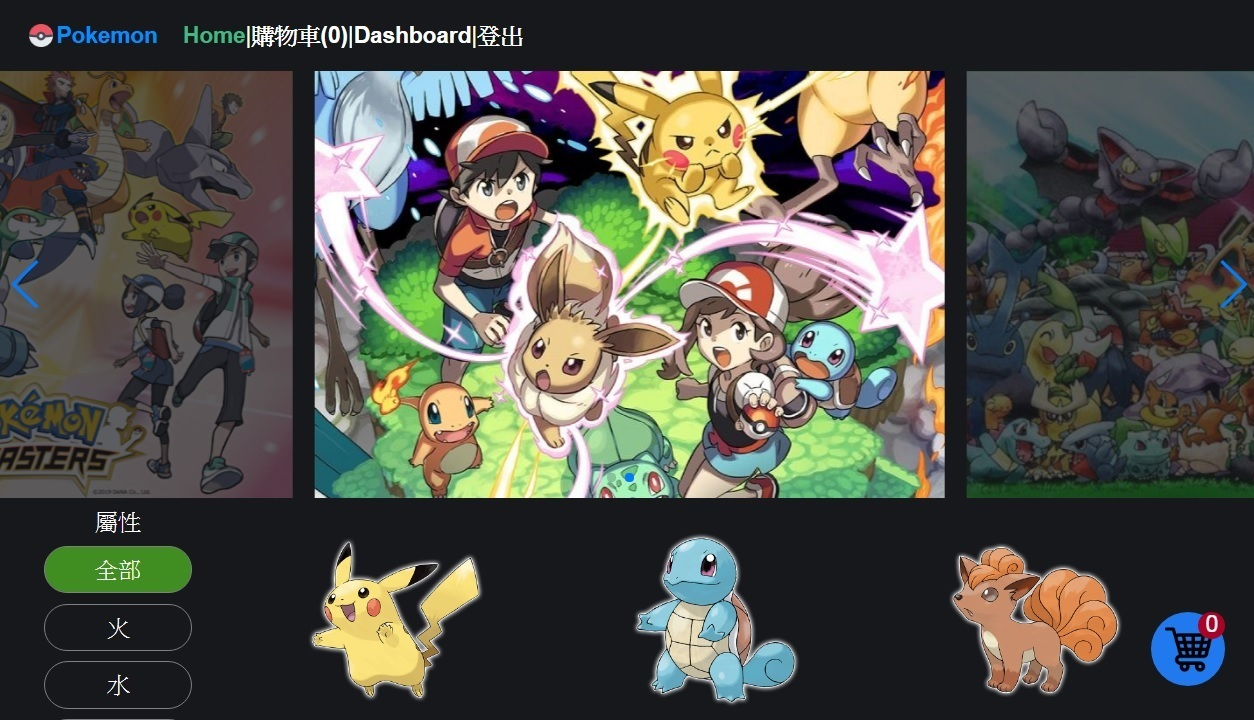
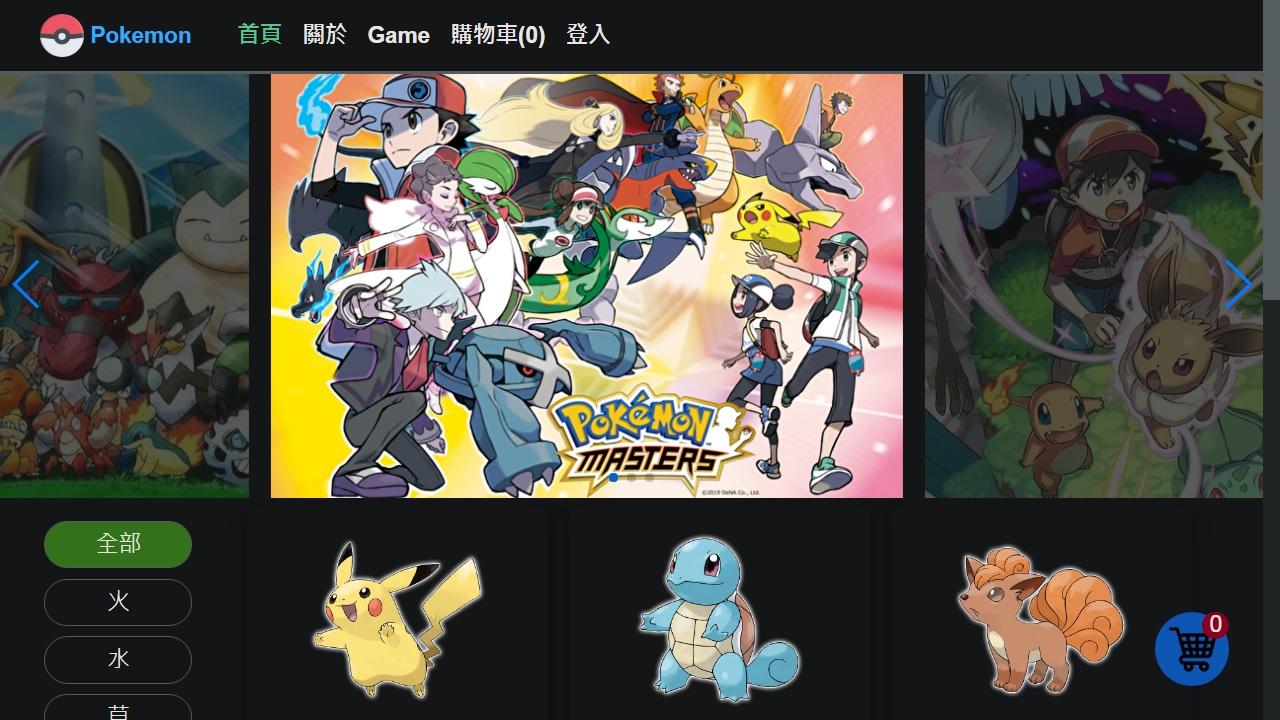
update README and fixed slider image

diff --git a/src/components/Slider.vue b/src/components/Slider.vue
@@ -28,26 +28,26 @@ export default {
         loop: true,
         speed: 300,
         autoplay: {
-          delay: 3000
+          delay: 3000,
         },
         slidesPerView: "auto",
         centeredSlides: true,
         spaceBetween: 20,
         pagination: {
           el: ".swiper-pagination",
-          clickable: true
+          clickable: true,
         },
         navigation: {
           nextEl: ".swiper-button-next",
-          prevEl: ".swiper-button-prev"
-        }
-      }
+          prevEl: ".swiper-button-prev",
+        },
+      },
     };
   },
   components: {
     swiper,
-    swiperSlide
-  }
+    swiperSlide,
+  },
 };
 </script>
 
@@ -69,7 +69,7 @@ export default {
     background-position: center center;
     background-size: cover;
     &.slide-1 {
-      background-image: url("../assets/slider1.png");
+      background-image: url("../assets/slider1.jpg");
     }
     &.slide-2 {
       background-image: url("../assets/slider2.jpg");
